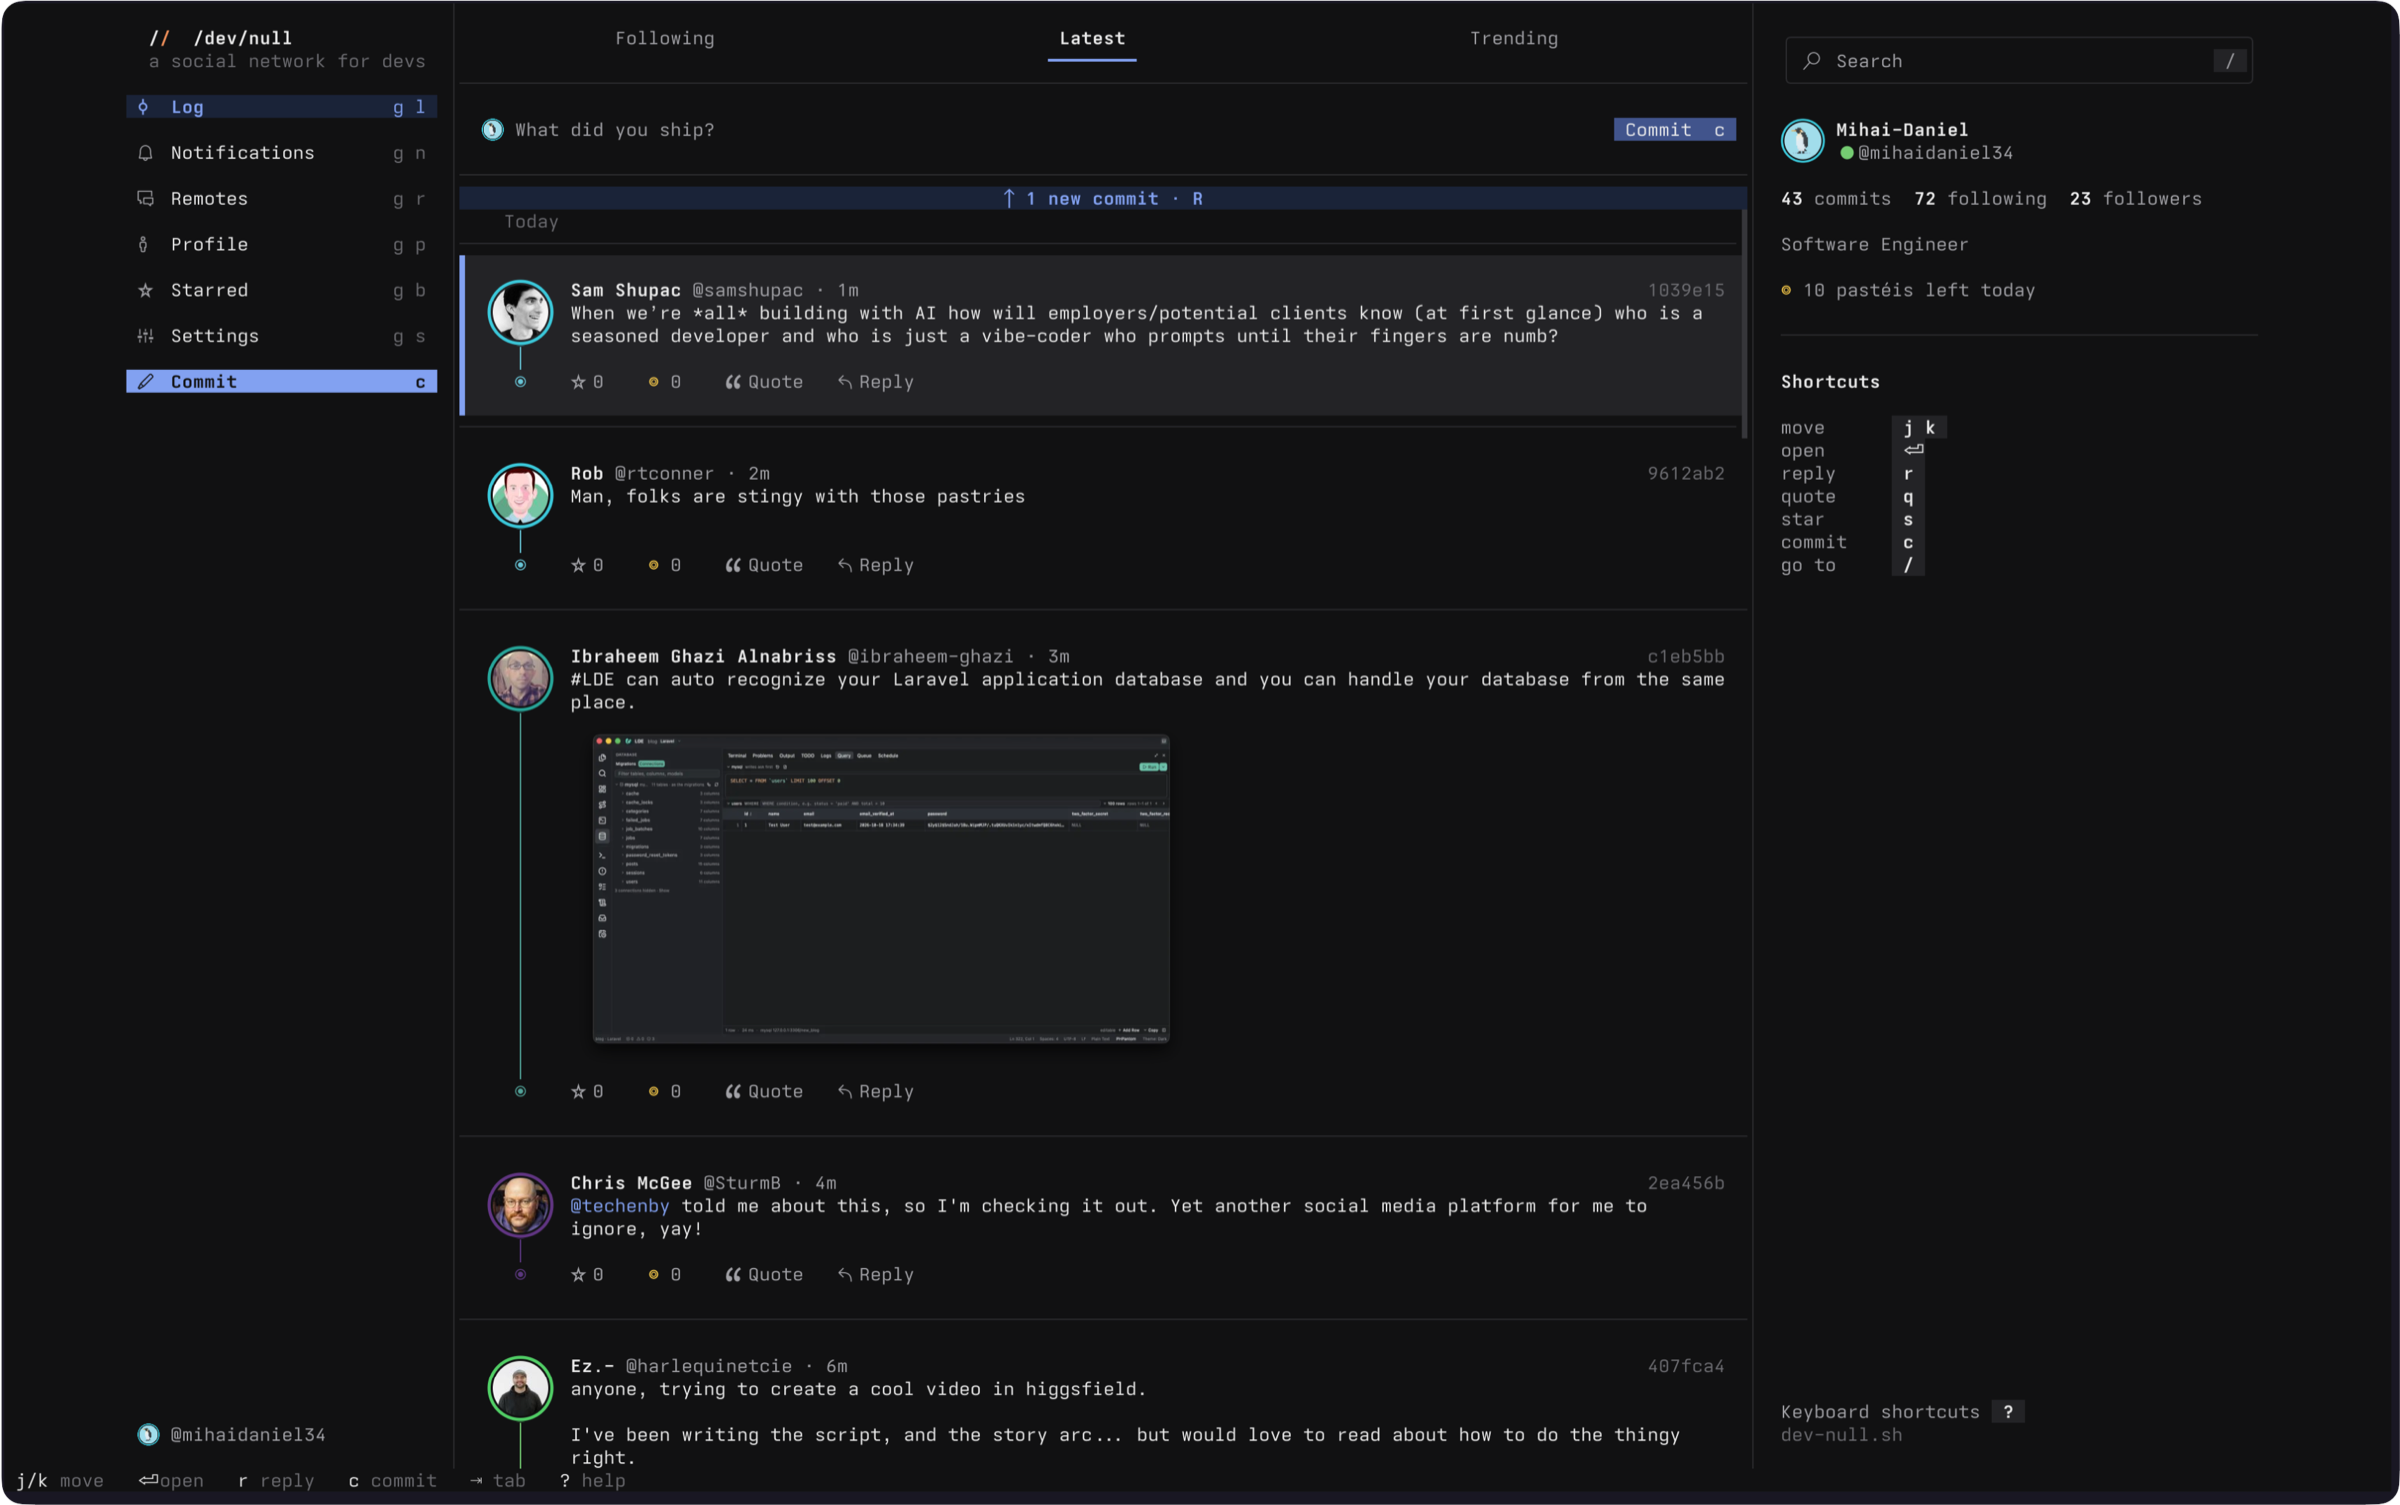
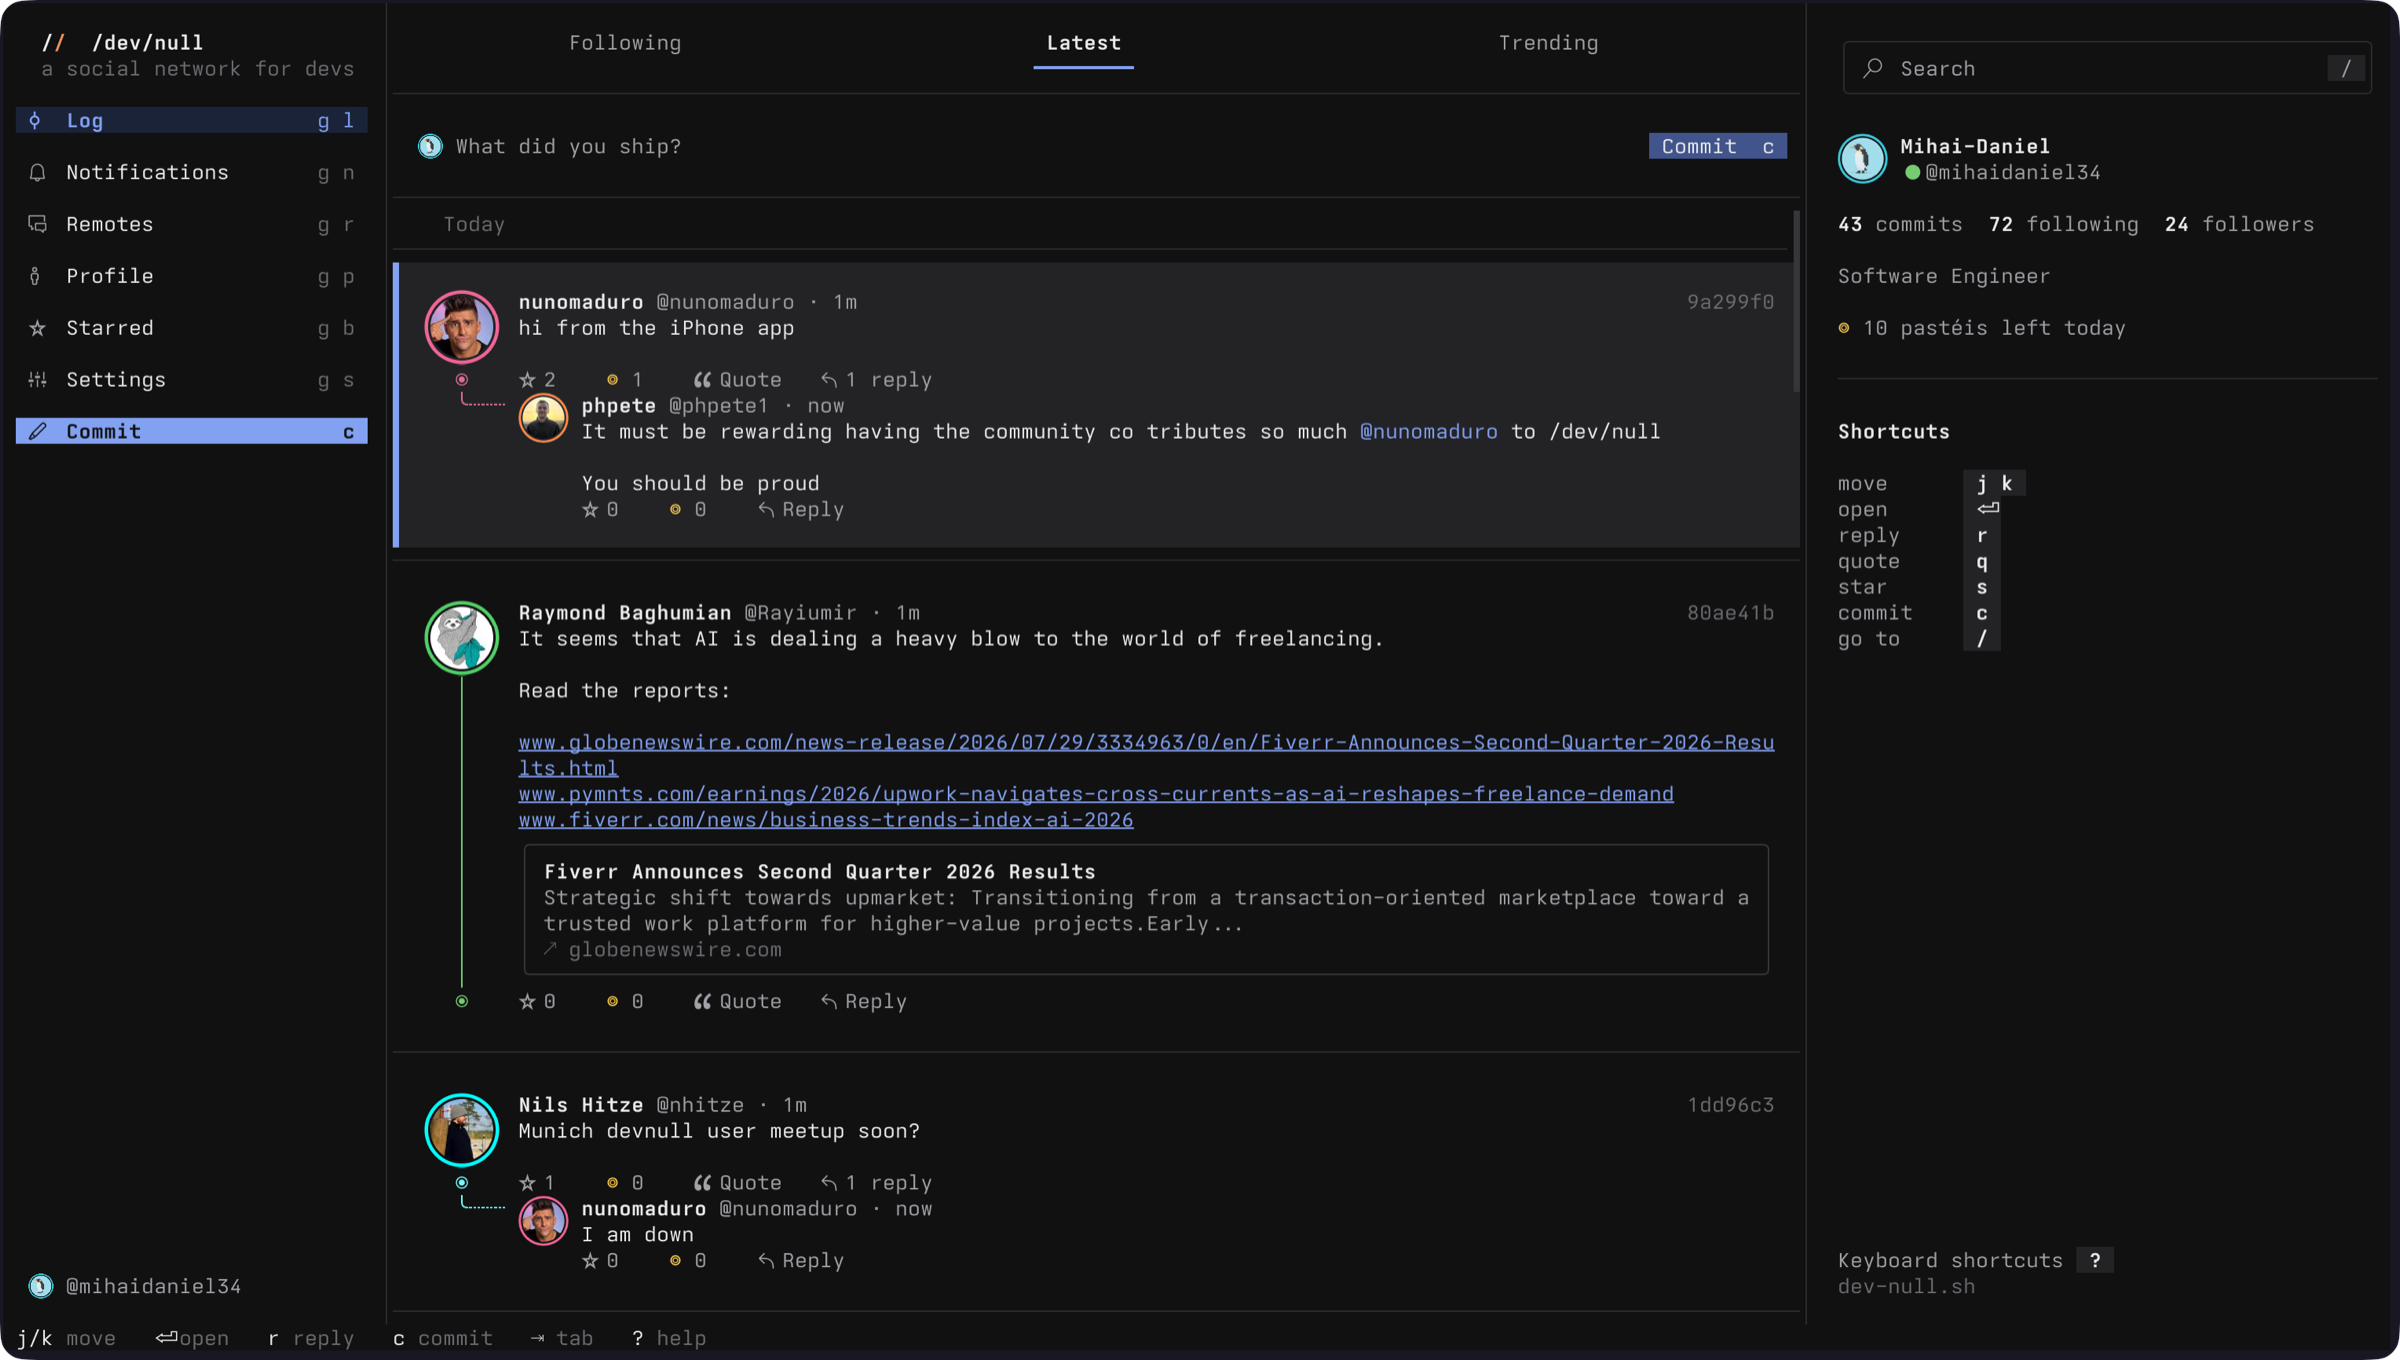
Bring back the light theme, and tighten short commits
Settings goes through auto, dark and light again with t; Windows 98 and your
own themes still sit out, though DEVNULL_THEME picks any. A short commit with
nothing to branch to drops its node, so its actions follow its text beside a
three-row avatar instead of waiting below it.

Fresh dark and light screenshots for the README.

diff --git a/src/ui.rs b/src/ui.rs
@@ -1125,18 +1125,28 @@ fn render_commit(feed: &Feed, commit: &Commit, role: Role, w: usize, selected: b
             vec![Line::default(), Line::from(Span::styled(full, Theme::faint_style()))],
         );
     }
-    // The node goes on the actions, a stretch of rail below the avatar however short the commit.
+    // The node goes on the actions, right below the avatar. A short commit with nothing to branch to has no node,
+    // so its actions follow its text, beside the avatar, instead of waiting below it.
     let (cols, rows) = avatar_size();
-    if gfx::enabled() {
-        while lines.len() <= header_at + rows as usize {
-            prefix(&mut lines, vec![Line::default()]);
+    let avatar_end = header_at + rows as usize;
+    let lone = replies.is_empty() && !rail_after && role == Role::Normal;
+    let mark = if gfx::enabled() && lone && lines.len() < avatar_end {
+        Span::raw(" ")
+    } else {
+        if gfx::enabled() {
+            while lines.len() < avatar_end {
+                prefix(&mut lines, vec![Line::default()]);
+            }
         }
+        Span::styled(
+            if pending { "◌" } else { icons::get().node },
+            Style::default().fg(lane).add_modifier(Modifier::BOLD),
+        )
+    };
+    lines.push(Line::from([gutter(selected, mark), actions].concat()));
+    while gfx::enabled() && lines.len() < avatar_end {
+        lines.push(Line::from(gutter(selected, Span::raw(" "))));
     }
-    let dot = Span::styled(
-        if pending { "◌" } else { icons::get().node },
-        Style::default().fg(lane).add_modifier(Modifier::BOLD),
-    );
-    lines.push(Line::from([gutter(selected, dot), actions].concat()));
 
     // The author's avatar takes the node's place, over the header and the lines below it.
     let avatar: Option<Vec<Span<'static>>> = (0..rows).map(|row| avatar_row(&author, cols, rows, row)).collect();
@@ -1741,8 +1751,7 @@ fn draw_settings(f: &mut Frame, app: &App, area: Rect) {
             Theme::dim(),
         ),
     ]));
-    if config::THEME_PICKER {
-        lines.push(Line::default());
+    {
         let shown = match (app.config.theme().as_str(), app.detected_light) {
             ("auto", Some(true)) => "auto · light, like your terminal".to_string(),
             ("auto", Some(false)) => "auto · dark, like your terminal".to_string(),
@@ -1756,14 +1765,11 @@ fn draw_settings(f: &mut Frame, app: &App, area: Rect) {
             Span::styled("  T goes back", Theme::faint_style()),
         ]));
         lines.extend(text::wrap_indented(
-        &format!(
-            "Auto follows your terminal's background. Your own themes go in {}, as TOML files like the ones in the repo's themes/ folder.",
-            text::tilde(&crate::theme::custom_dir())
-        ),
-        w,
-        Theme::faint_style(),
-        5,
-    ));
+            "Auto follows your terminal's background.",
+            w,
+            Theme::faint_style(),
+            5,
+        ));
     }
     lines.push(Line::default());
     lines.push(section("Server"));

diff --git a/src/app.rs b/src/app.rs
@@ -1672,13 +1672,12 @@ impl App {
                     self.toast("DEVNULL_ICONS is set, so it wins over this setting.");
                 }
             }
-            KeyCode::Char(c @ ('t' | 'T')) if crate::config::THEME_PICKER => {
-                // auto, then every theme, built-in and yours. T goes back.
-                let mut ids = vec!["auto".to_string()];
-                ids.extend(crate::theme::all());
+            KeyCode::Char(c @ ('t' | 'T')) => {
+                // auto, dark, light. T goes back.
+                let ids = crate::config::THEMES;
                 let at = ids.iter().position(|id| *id == self.config.theme()).unwrap_or(0) as isize;
                 let step = if c == 't' { 1 } else { -1 };
-                let next = ids[(at + step).rem_euclid(ids.len() as isize) as usize].clone();
+                let next = ids[(at + step).rem_euclid(ids.len() as isize) as usize].to_string();
                 self.config.theme = Some(next);
                 let _ = self.config.save();
                 self.apply_theme();

diff --git a/src/config.rs b/src/config.rs
@@ -6,9 +6,9 @@ use serde::{Deserialize, Serialize};
 
 pub const DEFAULT_URL: &str = "https://dev-null.sh";
 
-/// Whether Settings offers themes. Off while the redesign settles: the app follows the terminal, dark or light, and
-/// a saved theme waits for its return. DEVNULL_THEME still picks any.
-pub const THEME_PICKER: bool = false;
+/// The themes Settings offers. Windows 98 and your own sit out while the redesign settles, and a saved one waits
+/// for their return; DEVNULL_THEME still picks any.
+pub const THEMES: [&str; 3] = ["auto", "dark", "light"];
 
 #[derive(Debug, Clone, Default, Serialize, Deserialize)]
 pub struct Config {
@@ -32,7 +32,7 @@ impl Config {
         std::env::var("DEVNULL_THEME")
             .ok()
             .filter(|t| !t.is_empty())
-            .or_else(|| self.theme.clone().filter(|_| THEME_PICKER))
+            .or_else(|| self.theme.clone().filter(|t| THEMES.contains(&t.as_str())))
             .unwrap_or_else(|| "auto".into())
             .to_lowercase()
     }

diff --git a/src/theme.rs b/src/theme.rs
@@ -286,24 +286,6 @@ pub fn custom_dir() -> PathBuf {
     crate::config::dir().join("themes")
 }
 
-/// Every theme's id: the built-in ones, then yours.
-pub fn all() -> Vec<String> {
-    let mut ids: Vec<String> = BUILT_IN.iter().map(|(id, _)| id.to_string()).collect();
-    let mut custom: Vec<String> = fs::read_dir(custom_dir())
-        .into_iter()
-        .flatten()
-        .flatten()
-        .filter_map(|entry| {
-            let path = entry.path();
-            (path.extension()? == "toml").then(|| path.file_stem()?.to_str().map(str::to_string))?
-        })
-        .filter(|id| !ids.contains(id))
-        .collect();
-    custom.sort();
-    ids.append(&mut custom);
-    ids
-}
-
 /// A theme by its id, reading your themes folder first, so a file there can also change a built-in theme.
 pub fn load(id: &str) -> Result<Palette> {
     resolve(id, false, 0)

diff --git a/src/text.rs b/src/text.rs
@@ -409,14 +409,6 @@ pub fn count(n: u64) -> String {
     }
 }
 
-/// A path with the home directory as ~, the way it's written in a shell.
-pub fn tilde(path: &std::path::Path) -> String {
-    match dirs::home_dir().and_then(|home| path.strip_prefix(home).ok().map(|rest| rest.display().to_string())) {
-        Some(rest) => format!("~/{rest}"),
-        None => path.display().to_string(),
-    }
-}
-
 #[cfg(test)]
 mod tests {
     use super::*;

diff --git a/README.md b/README.md
@@ -44,7 +44,7 @@ You can revoke the device on the web under Settings → Devices.
 
 - **Profiles** show a year of activity as a contribution graph in the developer's lane color (or bars for a newer account), their streak, Unix rank and badges. `A` lists every achievement with its progress. `⇥` moves through Commits, Replies, Followers and Following.
 - **Notifications** filter by kind, as on the web: replies, mentions, quotes, stars, follows and moderation.
-- **Settings** (`g s`) picks your color from the six lanes, Automatic or any hex color, toggles pastéis mode, syncs your profile from GitHub, and switches icons (`i`).
+- **Settings** (`g s`) picks your color from the six lanes, Automatic or any hex color, toggles pastéis mode, syncs your profile from GitHub, picks dark or light (`t`), and switches icons (`i`).
 - **The composer** suggests developers as you type `@`, and `⇥` completes. A draft you close is kept, even across restarts.
 - **Code blocks** are highlighted the way the web highlights them, when you're signed in.
 - **Safety:** `m` mutes and `B` blocks someone from their profile, and `!` reports a commit to the moderators.
@@ -68,13 +68,15 @@ devnull talks to the signed API of the [/dev/null server](https://github.com/dev
 
 The layout fits the terminal. With room to spare (176 columns by 44 rows or more), the log widens and avatars grow. As the terminal narrows, or its font grows, the sidebar folds to icons before the right column goes, so the log keeps at least 72 columns.
 
-devnull uses the web's dark and light palettes, and asks your terminal for its background color to pick one.
+devnull uses the web's dark and light palettes. It asks your terminal for its background color to pick one, and `t` in Settings goes through auto, dark and light.
+
+![devnull in light mode, in Ghostty](docs/light.png)
 
 **Icons.** In Ghostty, kitty and WezTerm, which ship the Nerd Font symbols, devnull uses the web's outline icons. Elsewhere it uses plain symbols, unless you have a Nerd Font: `i` in Settings goes through auto, Nerd Font and plain, and `DEVNULL_ICONS` sets it from the environment.
 
 **Big text.** In kitty 0.40 or later, names, headings and the wordmark are drawn larger, with kitty's [text sizing protocol](https://sw.kovidgoyal.net/kitty/text-sizing-protocol/). devnull asks the terminal whether it can, so everywhere else text stays one size. `DEVNULL_BIG_TEXT=off` turns it off.
 
-**Themes** are taking a break while the redesign settles, so Settings doesn't offer them. `DEVNULL_THEME` still picks one: `light`, `dark`, `windows-98`, or a TOML file of yours in `themes/` in the config dir, named after its id. [`themes/dark.toml`](themes/dark.toml) lists every color a theme can set, and a theme only needs the ones it changes:
+**Other themes** are taking a break while the redesign settles, so Settings only offers dark and light. `DEVNULL_THEME` still picks one: `light`, `dark`, `windows-98`, or a TOML file of yours in `themes/` in the config dir, named after its id. [`themes/dark.toml`](themes/dark.toml) lists every color a theme can set, and a theme only needs the ones it changes:
 
 ```toml
 # ~/.config/devnull/themes/solarized.toml
@@ -157,7 +159,7 @@ The mouse wheel scrolls. Click a commit to select it, and click it again to open
 | `DEVNULL_IMAGES` | `off` turns avatars and images off. `on` turns them on where they aren't detected. |
 | `DEVNULL_ICONS` | `nerd` or `plain`. Left unset, it's the setting from Settings, `auto` by default, which picks Nerd Font icons in Ghostty, kitty and WezTerm. |
 | `DEVNULL_BIG_TEXT` | `off` keeps text one size. `on` draws big text without asking the terminal first. |
-| `DEVNULL_THEME` | A theme's id, like `light`, `dark` or `windows-98`. Left unset, devnull follows the terminal's background. |
+| `DEVNULL_THEME` | A theme's id, like `light`, `dark` or `windows-98`. Left unset, it's the theme from Settings, `auto` by default, which follows the terminal's background. |
 
 Colors use the web's palettes. On terminals without truecolor, they're mapped to the 256-color palette.
 
